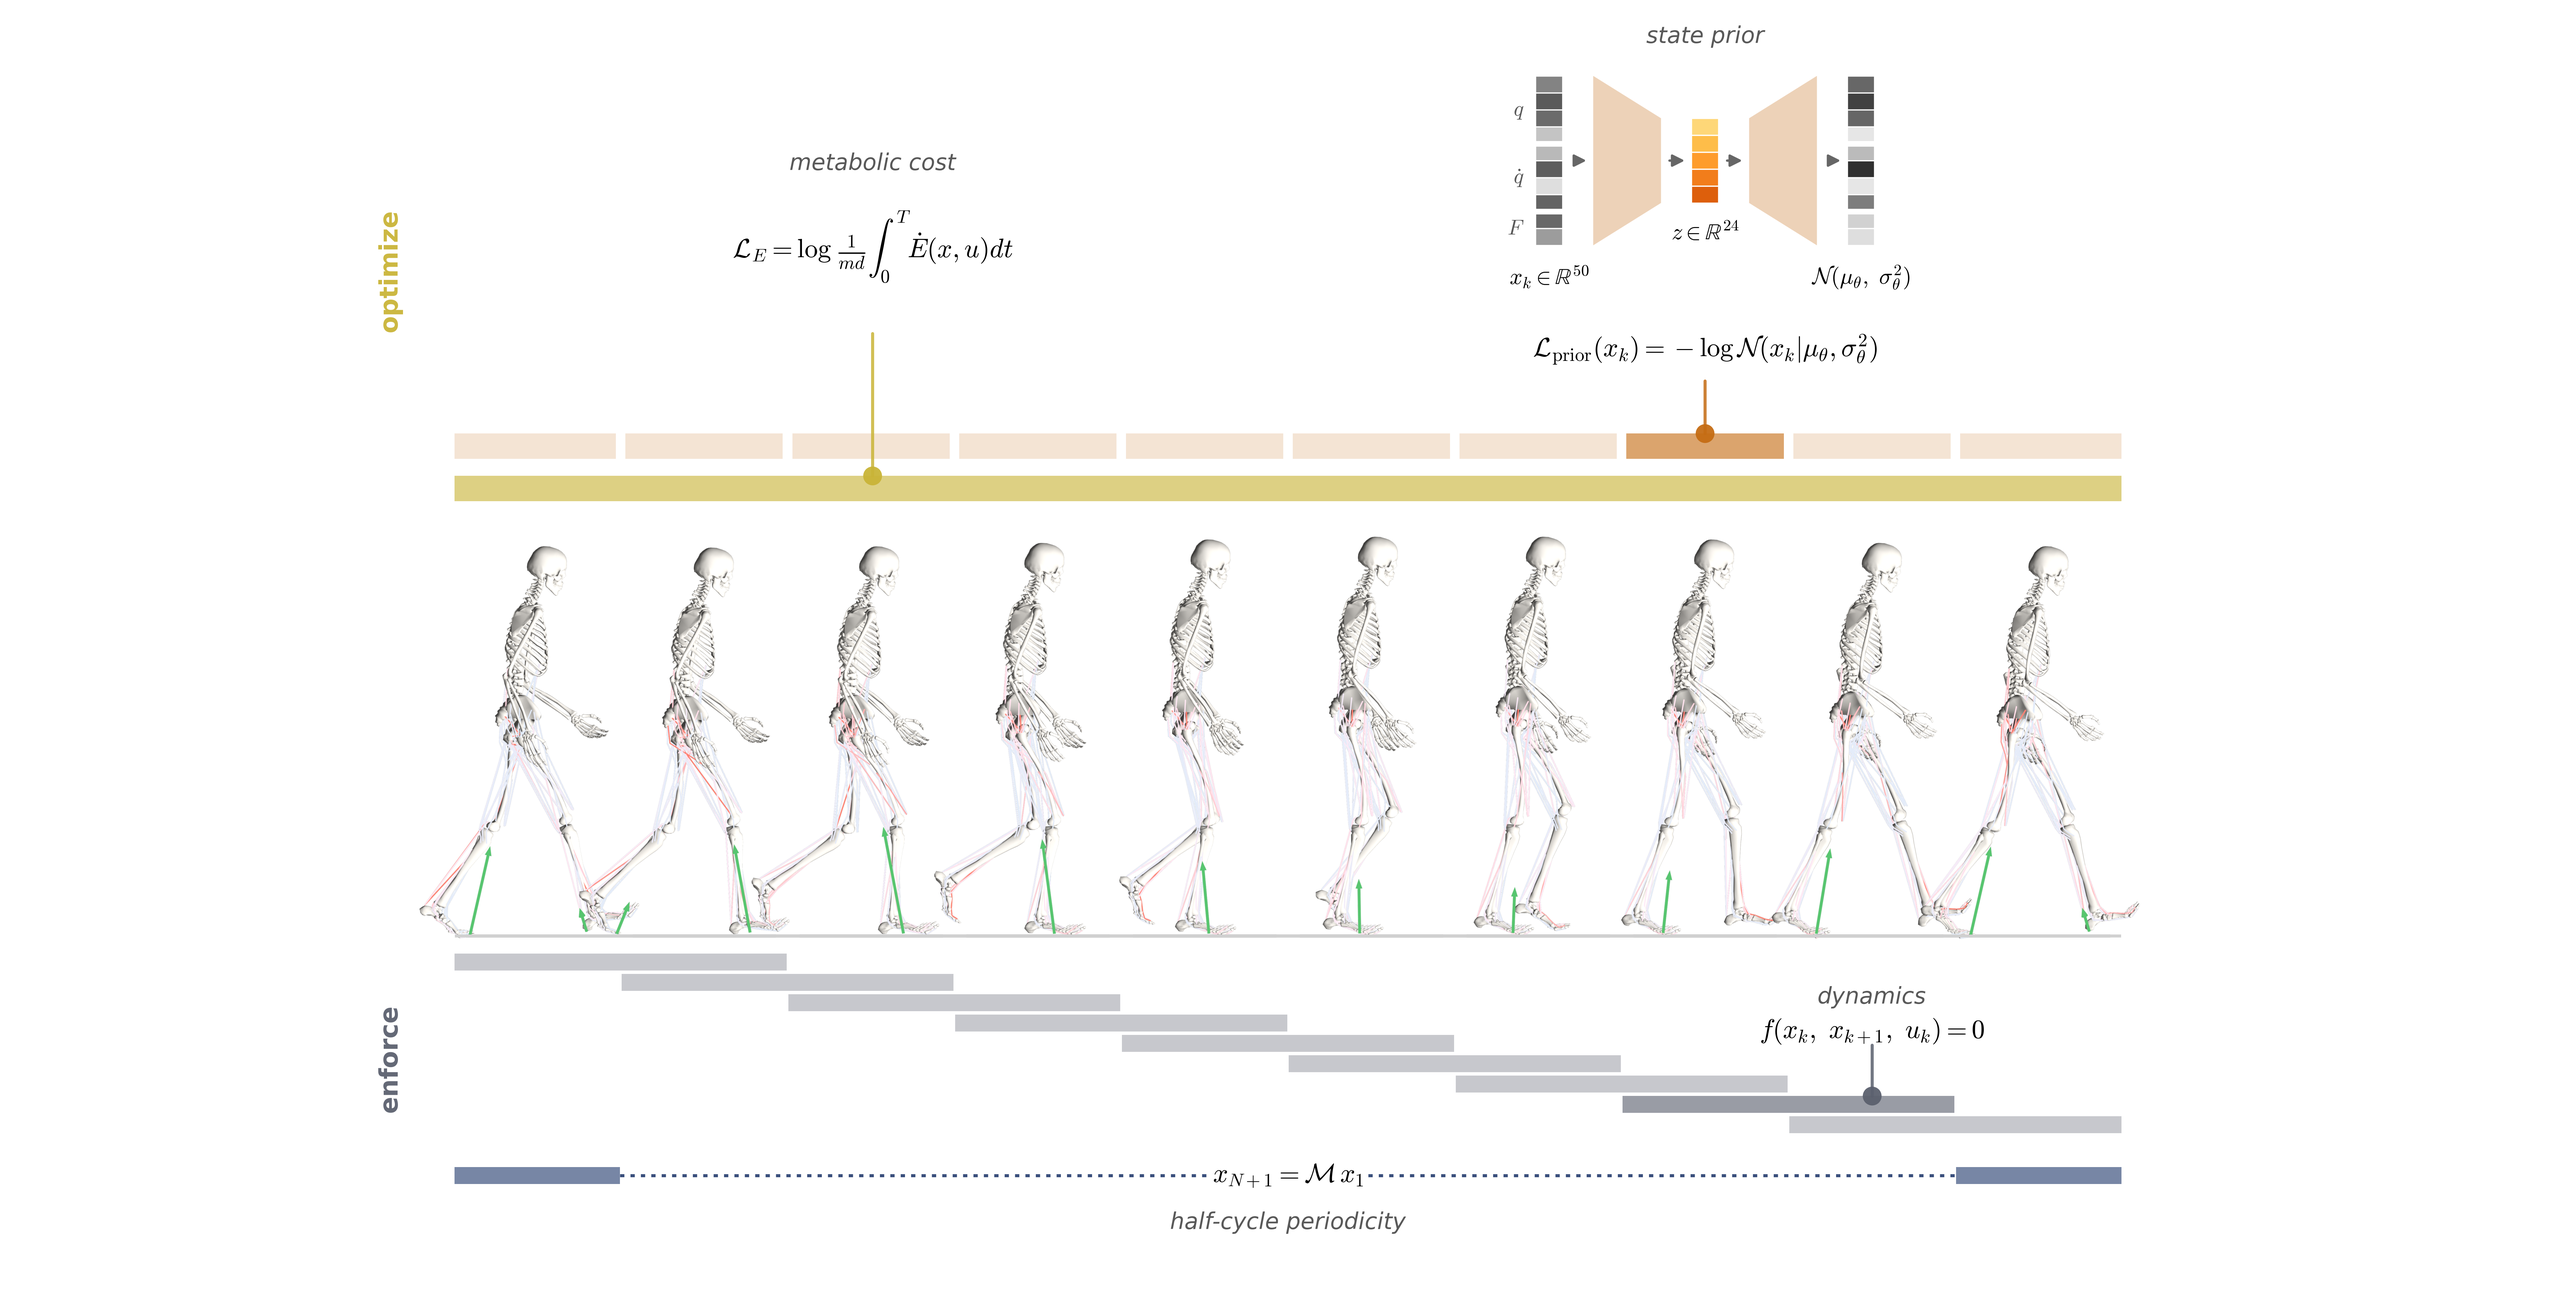
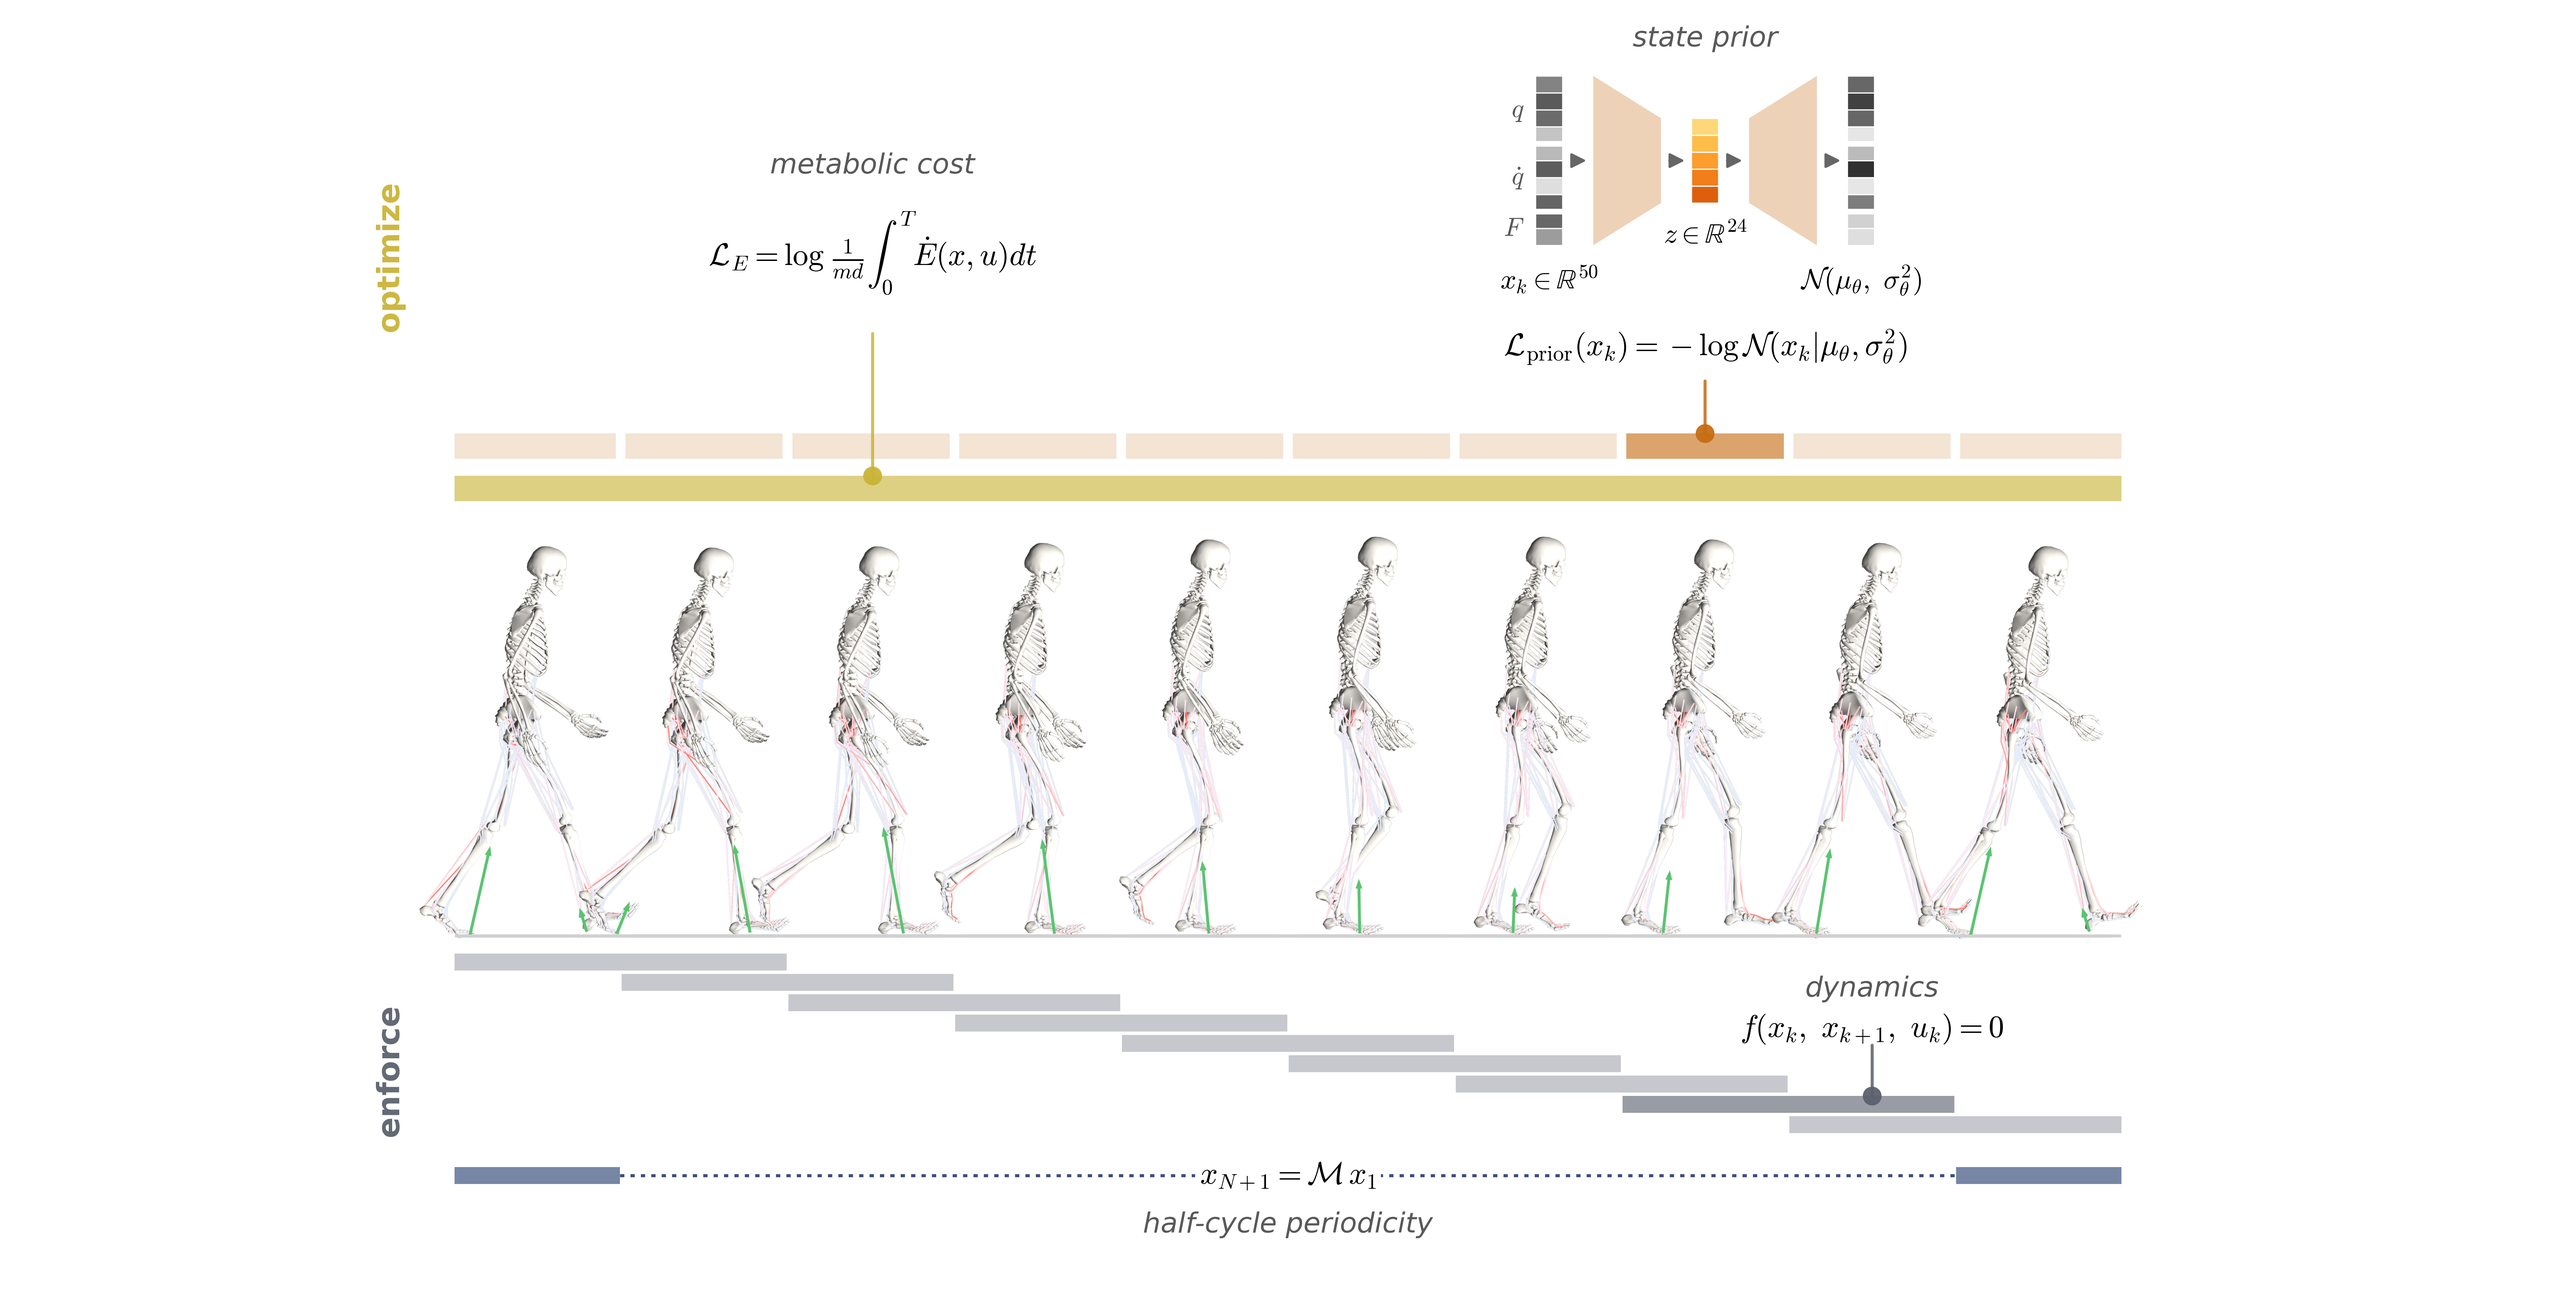
minor tweaks fig00

diff --git a/plot/figure00.py b/plot/figure00.py
@@ -219,8 +219,8 @@ P_BAR = (E_BAR[1] + BAR_GAP, E_BAR[1] + BAR_GAP + BAR_H)
 # full cycle to the half cycle moved it from 13.4in to 11.7in and pushed the
 # equations to 9.4pt. So main() calibrates: draw, measure the real crop,
 # correct, repeat. Nothing here needs hand-tuning when the layout changes.
-TARGET_BASE_PT = 6.5
-EQ_SCALE, SUB_SCALE, TINY_SCALE = 1.05, 0.90, 0.84
+TARGET_BASE_PT = 8
+EQ_SCALE, SUB_SCALE, TINY_SCALE = 1.00, 0.90, 0.84
 FONT_MIN_PT, FONT_MAX_PT = 5.0, 8.0  # Nature Communications' stated range
 CALIB_PASSES = 4                     # font size changes the crop a little, so
 CALIB_TOL = 0.01                     # the correction is iterated to within 1%
